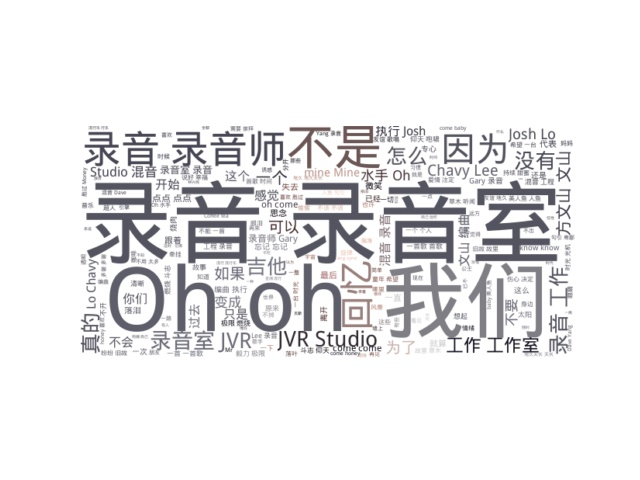
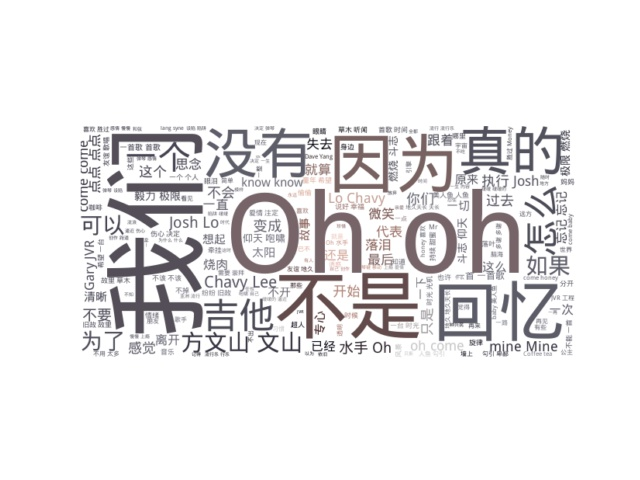
jay chou

Changed region(s): [[0.125, 0.25, 0.9062, 0.75]]

diff --git a/BibuyingData/word_cloud/word_cloud.py b/BibuyingData/word_cloud/word_cloud.py
@@ -18,7 +18,8 @@ def get_word_cloud(path_name, file_name):
     # coloring = np.array(Image.open(path.join(d, 'bg.png')))
     # set stopwords
     stopwords = set(STOPWORDS)
-    ignore_words = ['作曲', '作词', '制作', '作人', '乐队']
+    ignore_words = ['作曲', '作词', '制作', '作人', '乐队', '录音', '录音室', '录音师',
+                    '工作', '工作室', '编曲', 'Studio', '混音']
     ignore_words.append(file_name)
     for item in ignore_words:
         stopwords.add(item)
@@ -32,7 +33,7 @@ def get_word_cloud(path_name, file_name):
     plt.imshow(wordcloud,interpolation='bilinear')
     plt.axis("off")
     plt.savefig(path_name + file_name + '0.jpg')
-    # plt.show()
+    plt.show()
     plt.close()
 
 
@@ -54,5 +55,7 @@ def main():
 if __name__ == "__main__":
     # artists_path = os.path.dirname(os.path.dirname(os.getcwd())) + '/ArtistsData/'
     # get_word_cloud(artists_path, 'dan.txt')
-    main()
+    # main()
+    artists_path = os.path.dirname(os.path.dirname(os.getcwd())) + '/ArtistsData/'
+    get_word_cloud(artists_path, '周杰伦')
     pass
